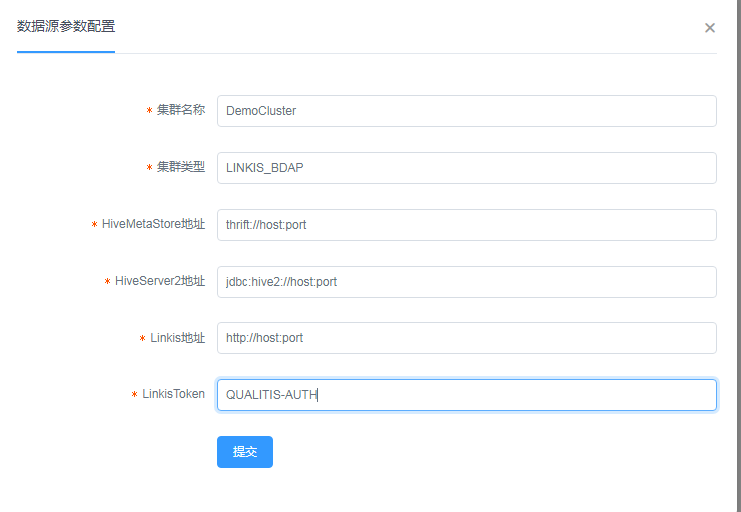
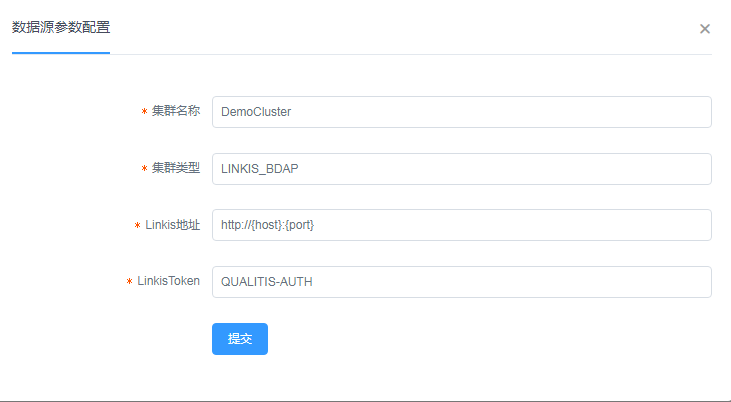
Update docs

diff --git a/docs/en_US/ch1/QuickDeploy.md b/docs/en_US/ch1/QuickDeploy.md
@@ -8,7 +8,7 @@ Hadoop (2.7.2)
 Hive (1.2.1)   
 Zookeeper (3.4.9)  
 Linkis (0.9.1), Spark engine required.[How to install Linkis?](https://github.com/WeBankFinTech/Linkis)  
-DataSphereStudio (0.6.0) Optional. If you want to use workflow, it it required. [How to install DataSphereStudio?](https://github.com/WeBankFinTech/DataSphereStudio)  
+DataSphereStudio (0.6.0) Optional. If you want to use workflow, it it required. [How to install DataSphereStudio?](https://github.com/WeBankFinTech/DataSphereStudio)
 
 ## 2. Download
 [Download](https://github.com/WeBankFinTech/Qualitis/releases)
@@ -54,10 +54,6 @@ task.persistence.address=
 
 ## zookeeper address
 zk.address=
-
-## HiveServer2 username and password
-hive.username=
-hive.password=
 ```
 
 ### 4.4 Start Service
@@ -79,9 +75,7 @@ Click on "Configuration" -> "Cluster Configuration" to add cluster.
 ![系统配置](../../../images/en_US/ch1/NewCluster.png)  
 Type in the configuration information below:    
 Cluster name(The name of Hadoop cluster)  
-Cluster type  
-HiveMetaStore address  
-HiveServer2 address  
+Cluster type
 Linkis address  
 Linkis Token(How to get Linkis Token：[Linkis Access Guide](Linkis Access Guide.md))  
 
@@ -90,7 +84,14 @@ Here is an example:
 
 ---
 
-Tips:   
+Tips:
+
+Qualitis will save the abnormal data in the database. The saved database name can be configured in the system settings, as shown in the following figure:
+![](../../../images/en_US/ch1/AbnormalDataSavedDatabaseConfiguration.png)
+As shown in the figure, Qualitis provides $ {USERNAME} as an expression for user name replacement. The abnormal data ran by different users are stored in their respective databases.
+
+---
+
 Workflow is default supported.   
 You need to install [DataSphereStudio](https://github.com/WeBankFinTech/DataSphereStudio) to use workflow.  
 Enabling workflow does not affect the normal use of Qualitis.  

diff --git a/README.md b/README.md
@@ -73,3 +73,8 @@ If you desire immediate response, please kindly raise issues to us or scan the b
 
 ## License
 **Linkis is under the Apache 2.0 license. See the [LICENSE](/LICENSE) file for details.**
+
+## Tips
+Because the front-end code of Qualitis is FES, a front-end framework developed by WeBank, but the FES framework is not currently open source, so the front-end code of Qualitis is not open source for the time being. We will promote Qualitis's front-end open source as soon as possible. We are very sorry about this.
+
+You can download the source code and unzip web/app/src/main/resources/static/static.zip to get the compiled front-end code, or use it directly by downloading the release.

diff --git a/docs/zh_CN/ch1/升级指南.md b/docs/zh_CN/ch1/升级指南.md
@@ -4,7 +4,16 @@
 下载0.6.0版本代码，并解压。
 
 执行以下数据库脚本:
-   ```
-   mysql -u {USERNAME} -p {PASSWORD} -h {IP} --default-character-set=utf8
-   source conf/database/update/update_0.5.0-0.6.0.sql
-   ```
+```
+mysql -u {USERNAME} -p {PASSWORD} -h {IP} --default-character-set=utf8
+source conf/database/update/update_0.5.0-0.6.0.sql
+```
+
+## 0.6.0 升级 0.7.0
+下载0.6.0版本代码，并解压。
+
+执行以下数据库脚本:
+```
+mysql -u {USERNAME} -p {PASSWORD} -h {IP} --default-character-set=utf8
+source conf/database/update/update_0.6.0-0.7.0.sql
+```

diff --git a/docs/zh_CN/ch1/接入Linkis文档.md b/docs/zh_CN/ch1/接入Linkis文档.md
@@ -19,7 +19,7 @@ QUALITIS-AUTH=*
 
 ### 加入MySQL依赖包
 ```
-cd $LINKIS_HOME/linkis-ujes-spark-enginemanager/lib
+cd $SPARK_HOME/jars
 ```
 并加入mysql依赖包
 
